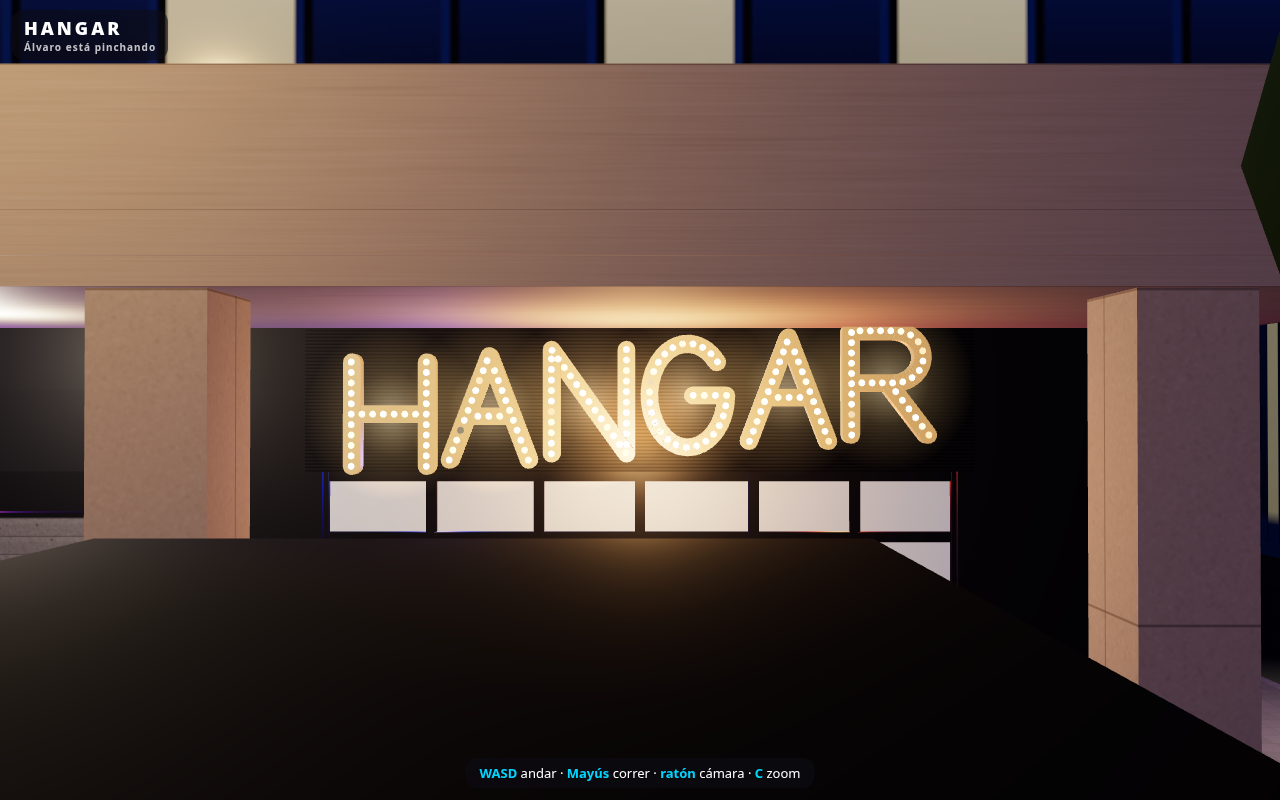
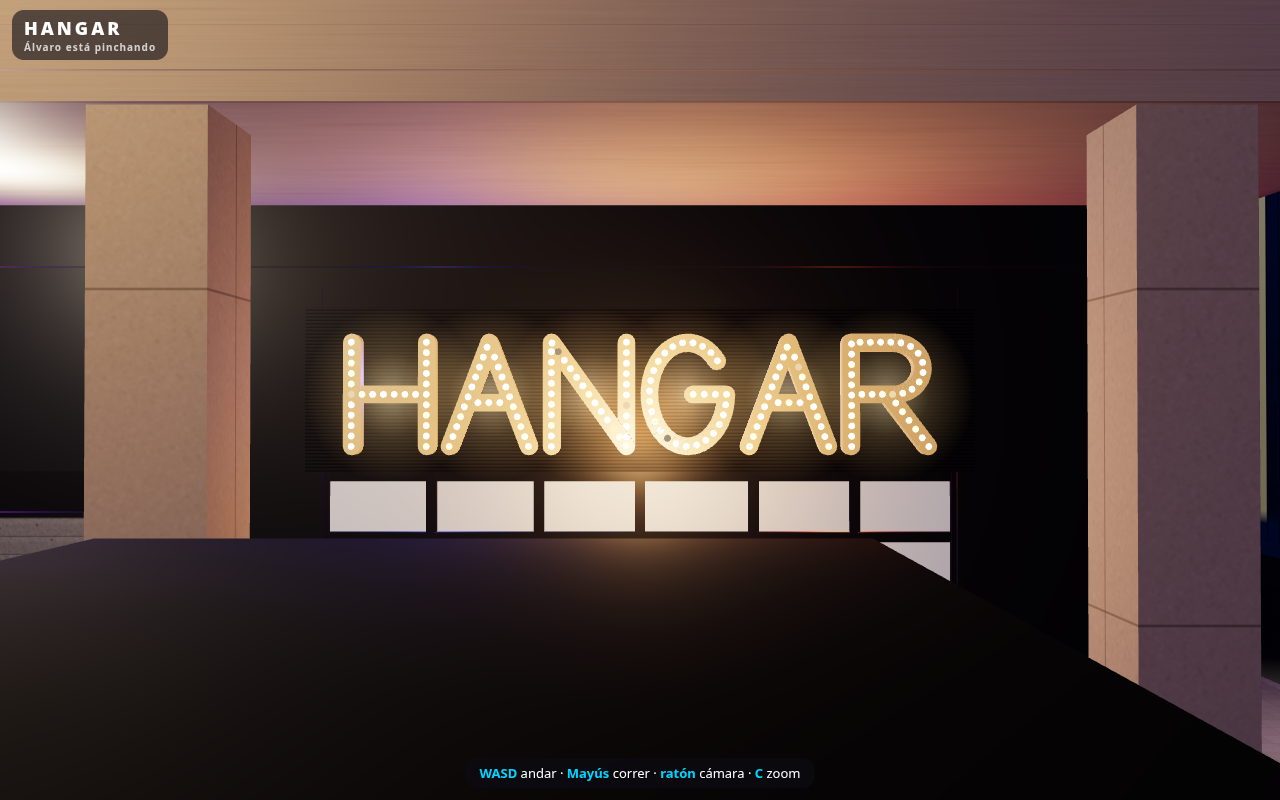
Techo a 4,8 m, cuartillo con altura, rótulo recto

diff --git a/index.html b/index.html
@@ -830,7 +830,7 @@ function mergeUV(list) { let nv = 0, ni = 0; for (const g of list) { nv += g.att
   const out = new THREE.BufferGeometry(); out.setAttribute('position', new THREE.BufferAttribute(P, 3)); out.setAttribute('normal', new THREE.BufferAttribute(N, 3)); out.setAttribute('uv', new THREE.BufferAttribute(UV, 2)); out.setIndex(new THREE.BufferAttribute(I, 1)); out.computeBoundingSphere(); return out; }
 const dyn = (mesh, parent = scene) => { parent.add(mesh); return mesh; };
 // ---------- PLANO (px del plano 1 → m: X=(px-249)/32-11.44, Z=(py-360)/32) ----------
-const XL = -11.44, XR = 11.44, ZB = -10.56, H = 3.6, T = 0.22;
+const XL = -11.44, XR = 11.44, ZB = -10.56, H = 4.8, T = 0.22;
 const P = { banoChicos: [-11.44, -10.56, -7.6, -8.22], pasillo: [-11.44, -8.22, -6.56, -7.22], banoChicas: [-11.44, -7.22, -8.06, -4.53], guardarropa: [-8.06, -7.22, -6.56, -4.53],
   notch: [-5.19, -10.56, -3.13, -9.25], botellas: [-1.7, -10.56, 6.81, -9.69], camareros: [-3.13, -9.69, 6.81, -8.28], barra: [-4.25, -8.28, 6.81, -7.34], columna: [-2.31, -6.69, -1.31, -5.69],
   dj: [-6.56, -5.19, -3.97, -1.88], escenario: [7.81, -7.34, 11.44, 0], backstage: [6.81, -10.56, 11.44, -7.34], tabique: [-0.25, -1.72, 3.4, -1.25], puerta: [0.53, 2.97], crisIzq: [-6.0, -0.66], crisDer: [3.84, 10.06] };
@@ -909,7 +909,7 @@ for (let x = -2.0; x < 6.4; x += 1.8) B(x, 0.05, -8.28, x + 0.8, 0.85, -8.2, std
 // grifo de cerveza y TPV
 CYL(0.03, 0.35, M.metal, 1.0, 1.06, -7.7, 8); for (let i = 0; i < 3; i++) CYL(0.012, 0.18, std({ color: '#111' }), 0.9 + i * 0.1, 1.3, -7.66, 6);
 // lámparas de campana colgadas de un tubo sobre la barra
-const WARM = []; { B(-4.0, 2.65, -7.83, 6.6, 2.69, -7.79, M.metal); for (let x = -3.6; x <= 6.3; x += 1.1) { CYL(0.008, 0.45, M.black, x, 2.2, -7.81, 4); const bell = new THREE.Mesh(new THREE.CylinderGeometry(0.06, 0.2, 0.22, 16, 1, true), std({ color: '#4c5258', metalness: 0.7, roughness: 0.35, side: THREE.DoubleSide })); bell.position.set(x, 2.1, -7.81); scene.add(bell);
+const WARM = []; { B(-4.0, H - 0.1, -7.83, 6.6, H - 0.06, -7.79, M.metal); for (let x = -3.6; x <= 6.3; x += 1.1) { CYL(0.008, H - 0.1 - 2.2, M.black, x, 2.2, -7.81, 4); const bell = new THREE.Mesh(new THREE.CylinderGeometry(0.06, 0.2, 0.22, 16, 1, true), std({ color: '#4c5258', metalness: 0.7, roughness: 0.35, side: THREE.DoubleSide })); bell.position.set(x, 2.1, -7.81); scene.add(bell);
   const bulb = new THREE.Mesh(new THREE.SphereGeometry(0.06, 10, 8), emi('#ffb860', 1.6)); bulb.position.set(x, 2.02, -7.81); scene.add(bulb); WARM.push(bulb); } }
 // taburetes de cuero frente a la barra
 const stool = (x, z, h = 0.75) => { CYL(0.18, 0.08, M.leather, x, h, z, 14); for (let i = 0; i < 4; i++) { const a = i * Math.PI / 2 + 0.78; addG(new THREE.CylinderGeometry(0.012, 0.012, h, 5), M.frame, x + Math.cos(a) * 0.12, h / 2, z + Math.sin(a) * 0.12); } col(x - 0.2, z - 0.2, x + 0.2, z + 0.2); };
@@ -923,9 +923,9 @@ const STG = { x0: 7.81, x1: 11.44, z0: -7.34, z1: 0, h: 0.6 };
   for (let i = 0; i < 6; i++) B(STG.x1 - 0.04, STG.h, STG.z0 + 0.4 + i * 1.15, STG.x1 - 0.02, H, STG.z0 + 0.42 + i * 1.15, M.frame); }
 const LED_C = cv(256, 128, () => {}); const LED_T = new THREE.CanvasTexture(LED_C); LED_T.colorSpace = THREE.SRGBColorSpace;
 const ledScreen = new THREE.Mesh(new THREE.PlaneGeometry(4.6, 2.2), new THREE.MeshBasicMaterial({ map: LED_T })); ledScreen.position.set(STG.x1 - 0.05, STG.h + 1.55, -3.7); ledScreen.rotation.y = -Math.PI / 2; scene.add(ledScreen);
-const PARS = []; { B(STG.x0 + 0.3, 3.15, -6.9, STG.x0 + 0.38, 3.22, -0.5, M.black); for (let i = 0; i < 6; i++) { const z = -6.4 + i * 1.12; const can = new THREE.Mesh(new THREE.CylinderGeometry(0.1, 0.12, 0.26, 12), M.black); can.position.set(STG.x0 + 0.34, 3.0, z); can.rotation.z = -0.9; scene.add(can);
-  const lens = new THREE.Mesh(new THREE.CircleGeometry(0.095, 14), emi('#ff2a1a', 1.5)); lens.position.set(STG.x0 + 0.34 + 0.11, 2.92, z); lens.rotation.y = Math.PI / 2; lens.rotation.x = -0.0; lens.lookAt(STG.x1, 1.0, z); scene.add(lens); PARS.push(lens); } }
-{ const sp = new THREE.Group(); for (let i = 0; i < 4; i++) { const b = new THREE.Mesh(new THREE.BoxGeometry(0.5, 0.22, 0.4), M.black); b.position.y = -i * 0.23; b.rotation.z = -i * 0.05; sp.add(b); } sp.position.set(STG.x0 - 0.2, 3.3, -0.9); scene.add(sp); CYL(0.01, 0.5, M.metal, STG.x0 - 0.2, 3.1, -0.9, 4); }
+const PARS = []; { B(STG.x0 + 0.3, 4.35, -6.9, STG.x0 + 0.38, 4.42, -0.5, M.black); for (const z of [-6.8, -0.6]) B(STG.x0 + 0.31, 4.42, z - 0.03, STG.x0 + 0.37, H, z + 0.03, M.black); for (let i = 0; i < 6; i++) { const z = -6.4 + i * 1.12; const can = new THREE.Mesh(new THREE.CylinderGeometry(0.1, 0.12, 0.26, 12), M.black); can.position.set(STG.x0 + 0.34, 4.2, z); can.rotation.z = -0.9; scene.add(can);
+  const lens = new THREE.Mesh(new THREE.CircleGeometry(0.095, 14), emi('#ff2a1a', 1.5)); lens.position.set(STG.x0 + 0.34 + 0.11, 4.12, z); lens.rotation.y = Math.PI / 2; lens.rotation.x = -0.0; lens.lookAt(STG.x1, 1.0, z); scene.add(lens); PARS.push(lens); } }
+{ const sp = new THREE.Group(); for (let i = 0; i < 4; i++) { const b = new THREE.Mesh(new THREE.BoxGeometry(0.5, 0.22, 0.4), M.black); b.position.y = -i * 0.23; b.rotation.z = -i * 0.05; sp.add(b); } sp.position.set(STG.x0 - 0.2, 4.1, -0.9); scene.add(sp); CYL(0.01, H - 4.1, M.metal, STG.x0 - 0.2, 4.1, -0.9, 4); }
 // backline: batería y amplis (sencillos)
 { const drum = std({ color: '#7a1a1a', roughness: 0.3, metalness: 0.2 }); CYL(0.28, 0.4, drum, 10.2, STG.h, -3.7, 18); for (const [dz, r] of [[-0.6, 0.18], [0.6, 0.2]]) CYL(r, 0.25, drum, 9.9, STG.h + 0.45, -3.7 + dz, 14); CYL(0.24, 0.02, M.yellow, 10.3, STG.h + 1.0, -2.8, 16); CYL(0.01, 1.0, M.metal, 10.3, STG.h, -2.8, 4);
   B(10.6, STG.h, -6.6, 11.3, STG.h + 1.1, -5.9, M.black); B(10.6, STG.h, -1.4, 11.3, STG.h + 1.1, -0.7, M.black); for (const z of [-5.2, -2.2]) { CYL(0.012, 1.45, M.metal, 8.6, STG.h, z, 4); addG(new THREE.SphereGeometry(0.04, 8, 6), M.black, 8.6, STG.h + 1.5, z); }
@@ -979,7 +979,7 @@ poster(streetSign('ABBEY ROAD', 'CITY OF WESTMINSTER · NW8'), 0.9, 0.36, -6.4 +
 poster(streetSign('PENNY LANE', 'L18'), 0.9, 0.36, -6.54, 2.3, -6.6, RY_L);
 // '90' rojo pintado sobre el ladrillo (pared del guardarropa) y guirnalda
 poster((x, w, h) => { x.clearRect(0, 0, w, h); x.fillStyle = '#c8241a'; x.font = 'bold 230px Impact, Arial Black, sans-serif'; x.textAlign = 'center'; x.fillText('90', w / 2, h * 0.82); }, 1.4, 1.0, -6.56 + BT / 2 + 0.01, 2.75, -5.9, RY_R + Math.PI).material.transparent = true;
-const GARL = []; for (const [xa, za, xb, zb] of [[-6.5, -0.6, -6.5, -4.4], [-1.0, ZB + 0.05, -3.2, ZB + 0.05]]) { for (let i = 0; i <= 14; i++) { const t = i / 14; const x = xa + (xb - xa) * t, z = za + (zb - za) * t, y = 3.15 - Math.sin(t * Math.PI * 3) ** 2 * 0.25; const b = new THREE.Mesh(new THREE.SphereGeometry(0.035, 8, 6), emi('#ffb860', 1.6)); b.position.set(x + (xa === xb ? 0.06 : 0), y, z + (za === zb ? 0.06 : 0)); scene.add(b); GARL.push(b); } }
+const GARL = []; for (const [xa, za, xb, zb] of [[-6.5, -0.6, -6.5, -4.4], [-1.0, ZB + 0.05, -3.2, ZB + 0.05]]) { for (let i = 0; i <= 14; i++) { const t = i / 14; const x = xa + (xb - xa) * t, z = za + (zb - za) * t, y = 4.1 - Math.sin(t * Math.PI * 3) ** 2 * 0.25; const b = new THREE.Mesh(new THREE.SphereGeometry(0.035, 8, 6), emi('#ffb860', 1.6)); b.position.set(x + (xa === xb ? 0.06 : 0), y, z + (za === zb ? 0.06 : 0)); scene.add(b); GARL.push(b); } }
 // logo gigante H en círculo detrás de la cabina DJ (sobre la pared izquierda) + "HANGAR" repetido
 const IMG = window.HANGAR_IMG || {}; const logoTex = (src) => { const t = new THREE.TextureLoader().load(src); t.colorSpace = THREE.SRGBColorSpace; return t; };
 const DJWALL = new THREE.Mesh(new THREE.PlaneGeometry(3.4, 2.4), new THREE.MeshBasicMaterial({ color: '#0c0c10' })); DJWALL.position.set(-6.56 + 0.012, 2.25, DJ.z); DJWALL.rotation.y = RY_L; scene.add(DJWALL);
@@ -990,13 +990,13 @@ const badge = new THREE.Mesh(new THREE.PlaneGeometry(1.5, 1.5), BADGE_M); badge.
 // --- carriles de focos (negros) con LED de colores en el techo + bola de espejos
 const RAILC = ['#B03CFF', '#FF2BD0', '#2A3CFF', '#00D5FF']; const RAILS = [];
 for (const [x0, x1, z] of [[-5.5, 6.5, -6.3], [-5.5, 6.5, -3.2], [-5.5, 7.0, -0.8]]) { B(x0, H - 0.06, z - 0.03, x1, H - 0.02, z + 0.03, M.black); for (let x = x0 + 0.5, i = 0; x < x1; x += 1.5, i++) { const c = RAILC[(i + (z * 3 | 0)) & 3]; const sp = new THREE.Group(); const body = new THREE.Mesh(new THREE.CylinderGeometry(0.06, 0.07, 0.2, 10), M.black); sp.add(body); const lens = new THREE.Mesh(new THREE.CircleGeometry(0.055, 10), emi(c, 1.8)); lens.position.y = -0.101; lens.rotation.x = Math.PI / 2; sp.add(lens); sp.position.set(x, H - 0.2, z); sp.rotation.z = (i % 2 ? 0.4 : -0.4); scene.add(sp); RAILS.push({ sp, lens, c: new THREE.Color(c) }); } }
-const BALL = new THREE.Group(); { const g = new THREE.IcosahedronGeometry(0.28, 2); const m = new THREE.Mesh(g, new THREE.MeshStandardMaterial({ color: '#dfe6ee', metalness: 1, roughness: 0.15, flatShading: true })); BALL.add(m); BALL.position.set(1.2, 2.95, -4.2); scene.add(BALL); CYL(0.008, 0.4, M.metal, 1.2, 3.2, -4.2, 4); }
+const BALL = new THREE.Group(); { const g = new THREE.IcosahedronGeometry(0.28, 2); const m = new THREE.Mesh(g, new THREE.MeshStandardMaterial({ color: '#dfe6ee', metalness: 1, roughness: 0.15, flatShading: true })); BALL.add(m); BALL.position.set(1.2, 3.9, -4.2); scene.add(BALL); CYL(0.008, H - 4.15, M.metal, 1.2, 4.15, -4.2, 4); }
 // haces de luz (aditivos) desde los carriles hacia la pista
 const BEAMS = []; const beamMat = c => new THREE.MeshBasicMaterial({ color: c, transparent: true, opacity: 0.12, blending: THREE.AdditiveBlending, depthWrite: false, side: THREE.DoubleSide });
-if (!Q.has('nobeam')) for (let i = 0; i < (LITE ? 4 : 8); i++) { const c = RAILC[i & 3]; const g = new THREE.ConeGeometry(0.7, 3.2, 16, 1, true); g.translate(0, -1.6, 0); const m = new THREE.Mesh(g, beamMat(c)); m.position.set(-3.5 + i * 1.4, H - 0.15, i % 2 ? -3.2 : -6.3); scene.add(m); BEAMS.push({ m, ph: i * 1.3 }); }
+if (!Q.has('nobeam')) for (let i = 0; i < (LITE ? 4 : 8); i++) { const c = RAILC[i & 3]; const g = new THREE.ConeGeometry(0.85, 4.3, 16, 1, true); g.translate(0, -2.15, 0); const m = new THREE.Mesh(g, beamMat(c)); m.position.set(-3.5 + i * 1.4, H - 0.15, i % 2 ? -3.2 : -6.3); scene.add(m); BEAMS.push({ m, ph: i * 1.3 }); }
 // ---------- EXTERIOR ----------
 // acera cubierta (soportal): z 0..3.6; pilares cuadrados chapados en piedra en el borde exterior; acera descubierta z 3.6..9.06; bordillo y avenida
-const PZ = 3.42, CURB = 9.06, ROAD1 = 23.5; const PORT_H = 4.6;
+const PZ = 3.42, CURB = 9.06, ROAD1 = 23.5; const PORT_H = 5.8;
 B(-60, -0.05, 0, 13.0, 0.0, CURB, M.pavers); B(12.4, -0.05, -24, 15.2, 0.0, CURB, M.pavers); // aceras
 B(-60, -0.18, CURB, 60, -0.12, ROAD1 + 8, M.asphalt); B(15.2, -0.18, -40, 23, -0.12, CURB, M.asphalt);
 B(-60, -0.12, CURB - 0.15, 15.2, 0.0, CURB, M.concrete); B(15.2, -0.12, -40, 15.35, 0, CURB, M.concrete);
@@ -1021,7 +1021,7 @@ const MARQ = (() => { const [sx0, sx1] = P.crisDer, SZ = FZ + 0.2;
   const LH = 1.0, SW = 0.17, DEP = 0.12, gap = 0.22, word = 'HANGAR', wid = c => ({ H: 0.72, A: 0.76, N: 0.72, G: 0.74, R: 0.74 })[c];
   const tot = [...word].reduce((a, c) => a + wid(c) * LH, 0) + gap * 5; let cx = (sx0 + sx1) / 2 - tot / 2; const geos = [], bulbs = [], halos = [];
   const step = LITE ? 0.16 : 0.1, near = (x, y) => bulbs.some(b => Math.hypot(b[0] - x, b[1] - y) < step * 0.6);
-  [...word].forEach((c, i) => { const y0 = 3.06 + i * 0.06, x0 = cx; halos.push([x0 + wid(c) * LH / 2, y0 + LH / 2]); // letras rectas, sin giro; la base sube en línea recta
+  [...word].forEach((c, i) => { const y0 = 3.25, x0 = cx; halos.push([x0 + wid(c) * LH / 2, y0 + LH / 2]); // letras rectas, sin giro, todas en la misma línea base
     for (const pl of L[c]) { const pts = pl.map(q => [x0 + q[0] * LH, y0 + q[1] * LH]); let tl = 0; const segs = [];
       for (let k = 0; k < pts.length - 1; k++) { const [ax, ay] = pts[k], [bx, by] = pts[k + 1], len = Math.hypot(bx - ax, by - ay); segs.push([ax, ay, bx, by, len, tl]); tl += len;
         const g = new THREE.BoxGeometry(len, SW, DEP); g.rotateZ(Math.atan2(by - ay, bx - ax)); g.translate((ax + bx) / 2, (ay + by) / 2, SZ + DEP / 2); geos.push(g); }
@@ -1101,8 +1101,8 @@ scene.add(new THREE.HemisphereLight('#5a4a8a', '#1a1418', LITE ? 0.9 : 0.6));
 scene.add(new THREE.AmbientLight('#2a2440', LITE ? 0.6 : 0.35));
 const moon = new THREE.DirectionalLight('#8090c8', 0.35); moon.position.set(-20, 40, 30); scene.add(moon);
 const PL_ = (c, i, d, x, y, z) => { const l = new THREE.PointLight(c, i, d, 1.6); l.position.set(x, y, z); scene.add(l); return l; };
-const LIGHTS = { bar: PL_('#ffb860', 9, 9, 1.2, 2.3, -7.3), bar2: LITE ? null : PL_('#ffb860', 7, 8, 5.2, 2.3, -7.3), room1: PL_('#B03CFF', 12, 12, -1.5, 3.0, -3.0), room2: PL_('#FF2BD0', LITE ? 0 : 9, 10, 4.5, 3.0, -2.5),
-  stage: PL_('#ff2a1a', 14, 9, 9.6, 3.0, -3.7), dj: PL_('#2A3CFF', 8, 6, -4.6, 2.6, -3.5), baths: PL_('#e8f0ff', 6, 8, -9.4, 3.0, -7.7), street: PL_('#ffd6a0', 16, 22, 2.4, 7.0, 8.0), street2: LITE ? null : PL_('#ffd6a0', 14, 22, -12, 7.0, 8.0), portico: PL_('#fff0d8', 9, 12, 1.5, 4.2, 2.0) };
+const LIGHTS = { bar: PL_('#ffb860', 9, 9, 1.2, 2.3, -7.3), bar2: LITE ? null : PL_('#ffb860', 7, 8, 5.2, 2.3, -7.3), room1: PL_('#B03CFF', 15, 14, -1.5, 4.0, -3.0), room2: PL_('#FF2BD0', LITE ? 0 : 11, 12, 4.5, 4.0, -2.5),
+  stage: PL_('#ff2a1a', 16, 10, 9.6, 3.8, -3.7), dj: PL_('#2A3CFF', 8, 6, -4.6, 2.6, -3.5), baths: PL_('#e8f0ff', 7, 9, -9.4, 3.6, -7.7), street: PL_('#ffd6a0', 16, 22, 2.4, 7.0, 8.0), street2: LITE ? null : PL_('#ffd6a0', 14, 22, -12, 7.0, 8.0), portico: PL_('#fff0d8', 11, 14, 1.5, 5.3, 2.0) };
 if (!LITE) { LIGHTS.stage.castShadow = false; }
 window.HW = { scene, COLL, P, DJ, STG, SPOTS, INT, CEIL, BLD, LITE, LIGHTS, RAILS, BEAMS, BALL, PARS, WARM, GARL, LED_C, LED_T, ledScreen, LEDM, updTraffic, CARS, ROOF, MARQ, bake: () => bakeStatic(m => (m === M.slats || m === M.awning || m === M.leaf) ? ROOF : null), M, H, XL, XR, ZB, CURB, PZ, PORT_H, DOWN };
 })();
